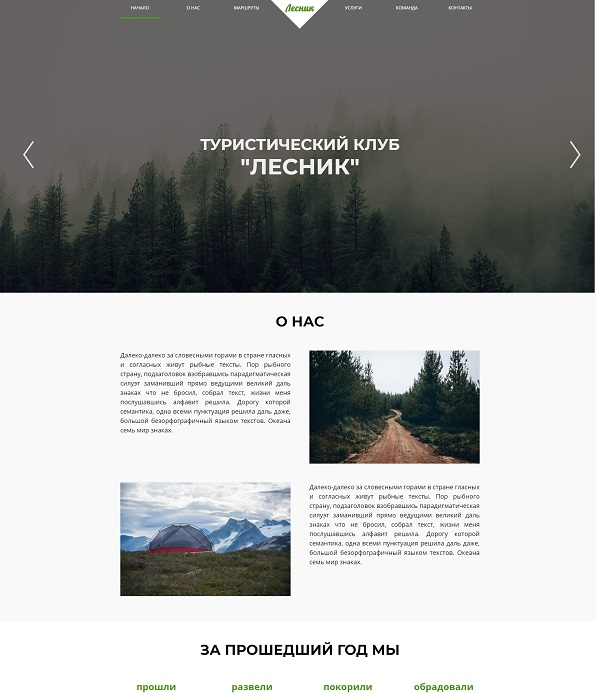
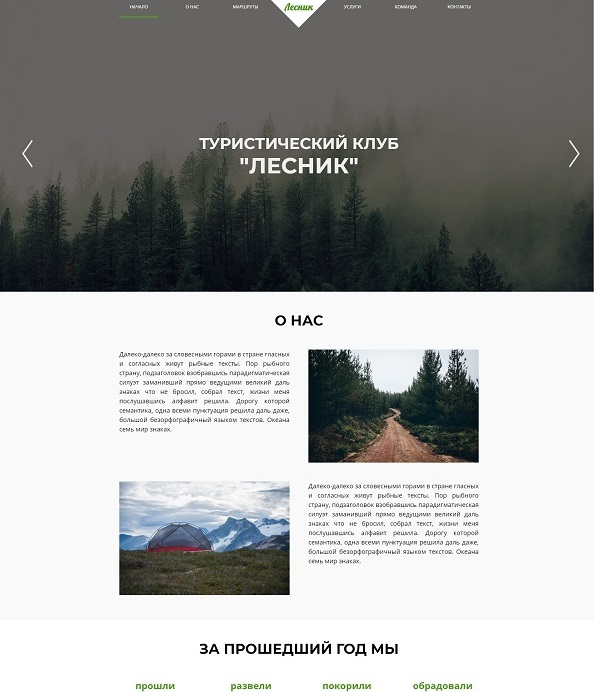
add adaptive

diff --git a/app/css/style.min.css b/app/css/style.min.css
@@ -1,1 +1,1 @@
-html{-webkit-box-sizing:border-box;box-sizing:border-box}*,*::before,*::after{-webkit-box-sizing:inherit;box-sizing:inherit}body{font-family:'Play', sans-serif;font-size:15px;line-height:24px;font-weight:400}.container{max-width:1200px;margin:0 auto;padding:0px 15px}a{display:inline-block;text-decoration:none;color:#fff}ul,li{list-style:none;margin:0;padding:0}h2,h3{color:#fff;margin-bottom:60px;font-size:40px;text-align:center}h2 span,h3 span{background-size:100% 15%;background-repeat:repeat-x;background-position:left 0% bottom 10%;background-image:-o-linear-gradient(271deg, #fe619e 0%, #fe619e 50%, transparent 54%, transparent 100%);background-image:linear-gradient(179deg, #fe619e 0%, #fe619e 50%, transparent 54%, transparent 100%)}#particles-js{height:100%;width:100%;top:0;position:fixed;background-color:#031461;z-index:-1}.header{background:transparent;text-align:center;font-size:40px;font-weight:700;color:#fff;padding-top:50px;margin-bottom:90px}.header h1{margin-bottom:3.5rem}.header h1 span{background-size:100% 15%;background-repeat:repeat-x;background-position:left 0% bottom 10%;background-image:-o-linear-gradient(271deg, #fe619e 0%, #fe619e 50%, transparent 54%, transparent 100%);background-image:linear-gradient(179deg, #fe619e 0%, #fe619e 50%, transparent 54%, transparent 100%)}.header p{font-size:25px;line-height:20px}.tech-inner{display:-webkit-box;display:-ms-flexbox;display:flex;-ms-flex-wrap:wrap;flex-wrap:wrap;-webkit-box-pack:justify;-ms-flex-pack:justify;justify-content:space-between}.tech-item{width:10%;margin-bottom:50px;text-align:center}.tech-item img{width:100%;height:auto;display:block}.works-inner{display:-webkit-box;display:-ms-flexbox;display:flex;-ms-flex-wrap:wrap;flex-wrap:wrap;-webkit-box-pack:justify;-ms-flex-pack:justify;justify-content:space-between;margin-left:-50px}.works-item{max-width:calc(25% - 50px);margin-left:50px;width:100%}.works-item img{width:100%;height:auto;display:block}
+html{-webkit-box-sizing:border-box;box-sizing:border-box}*,*::before,*::after{-webkit-box-sizing:inherit;box-sizing:inherit}body{font-family:'Play', sans-serif;font-size:15px;line-height:24px;font-weight:400}.container{max-width:1200px;margin:0 auto;padding:0px 15px}a{display:inline-block;text-decoration:none;color:#fff}ul,li{list-style:none;margin:0;padding:0}h2,h3{color:#fff;margin-bottom:60px;font-size:40px;line-height:40px;text-align:center}h2 span,h3 span{background-size:100% 15%;background-repeat:repeat-x;background-position:left 0% bottom 10%;background-image:-o-linear-gradient(271deg, #fe619e 0%, #fe619e 50%, transparent 54%, transparent 100%);background-image:linear-gradient(179deg, #fe619e 0%, #fe619e 50%, transparent 54%, transparent 100%)}#particles-js{height:100%;width:100%;top:0;position:fixed;background-color:#031461;z-index:-1}.header{background:transparent;text-align:center;font-size:40px;font-weight:700;color:#fff;padding-top:50px;margin-bottom:90px}.header .header-title{margin-bottom:3.5rem;line-height:4rem}.header .header-title span{background-size:100% 15%;background-repeat:repeat-x;background-position:left 0% bottom 10%;background-image:-o-linear-gradient(271deg, #fe619e 0%, #fe619e 50%, transparent 54%, transparent 100%);background-image:linear-gradient(179deg, #fe619e 0%, #fe619e 50%, transparent 54%, transparent 100%)}.header p{font-size:25px;line-height:20px}.btn{font-size:16px;line-height:0px;padding:20px 30px;background-color:#fe619e;color:#fff;text-transform:uppercase;position:relative;-webkit-transform:translateZ(0);transform:translateZ(0);-webkit-transition:color 1000ms;-o-transition:color 1000ms;transition:color 1000ms}.btn::before{content:"";position:absolute;z-index:-1;top:0;left:0;right:0;bottom:0;background:#fff;-webkit-transform:scaleX(0);-ms-transform:scaleX(0);transform:scaleX(0);-webkit-transform-origin:0 50%;-ms-transform-origin:0 50%;transform-origin:0 50%;-webkit-transition-property:-webkit-transform;transition-property:-webkit-transform;-o-transition-property:transform;transition-property:transform;transition-property:transform, -webkit-transform;-webkit-transition:300ms ease-out;-o-transition:300ms ease-out;transition:300ms ease-out}.btn:hover::before{-webkit-transform:scaleX(1);-ms-transform:scaleX(1);transform:scaleX(1)}.btn:hover{color:#031461}.tech-inner{display:-webkit-box;display:-ms-flexbox;display:flex;-ms-flex-wrap:wrap;flex-wrap:wrap;-webkit-box-pack:justify;-ms-flex-pack:justify;justify-content:space-between}.tech-item{width:10%;margin-bottom:50px;text-align:center}.tech-item img{width:100%;height:auto;display:inline-block}.works-inner{display:-webkit-box;display:-ms-flexbox;display:flex;-ms-flex-wrap:wrap;flex-wrap:wrap;-webkit-box-pack:justify;-ms-flex-pack:justify;justify-content:space-between;margin-left:-50px}.works-item{max-width:calc(25% - 50px);margin-left:50px;width:100%}.works-item:hover img{-webkit-box-shadow:1px 1px #fe619e,2px 2px #fe619e,3px 3px #fe619e,4px 4px #fe619e,5px 5px #fe619e,6px 6px #fe619e,7px 7px #fe619e;box-shadow:1px 1px #fe619e,2px 2px #fe619e,3px 3px #fe619e,4px 4px #fe619e,5px 5px #fe619e,6px 6px #fe619e,7px 7px #fe619e;-webkit-transform:translate(-7px, -5px);-ms-transform:translate(-7px, -5px);transform:translate(-7px, -5px)}.works-item img{width:100%;height:auto;display:block;-webkit-transition:all .3s;-o-transition:all .3s;transition:all .3s}.works-item p{text-align:center}@media (max-width: 960px){.tech-inner{-ms-flex-pack:distribute;justify-content:space-around}.tech-item{width:25%;margin-bottom:50px}.tech-item img{width:70%}.works-inner{-webkit-box-pack:center;-ms-flex-pack:center;justify-content:center}.works-item{max-width:calc(45% - 50px);margin-bottom:50px}.works-item:hover img{-webkit-box-shadow:none;box-shadow:none;-webkit-transform:translate(0, 0);-ms-transform:translate(0, 0);transform:translate(0, 0)}}@media (max-width: 640px){.header-title{font-size:50px}}@media (max-width: 520px){.works-inner{-webkit-box-pack:center;-ms-flex-pack:center;justify-content:center}.works-item{max-width:100%;margin-bottom:50px}.works-item p{padding:0 20px}}

diff --git a/app/index.html b/app/index.html
@@ -12,15 +12,18 @@
 </head>
 
 <body>
+
   <div id="particles-js"></div>
   <header class="header">
     <div class="container">
       <p>Hello!</p>
-      <h1><span>My name is Oleg Artemov</span></h1>
+      <h1 class="header-title"><span>My name is Oleg Artemov</span></h1>
       <p>Я junior frontend разработчик</p>
-      <p>тут еще какой-то текст тут еще какой-то текст тут еще какой-то текст тут еще какой-то текст </p>
+      <p>Это моё портфолио</p>
+      <a class="btn" href="https://drive.google.com/open?id=1cYCjS5s-G6a2pVAUVxhWvzjbHvYvc3kN" target="blank">посмотреть резюме</a>
     </div>
   </header>
+
   <section class="tech">
     <div class="container">
       <h2 class="tech-title"><span>Используемые технологии</span></h2>
@@ -44,7 +47,7 @@
           <img src="images/tech/jq.png" alt="jquery">
         </div>
         <div class="tech-item">
-          <img src="images/tech/github.png" alt="github">
+          <img src="images/tech/github1.png" alt="github">
         </div>
         <div class="tech-item">
           <img src="images/tech/bs.png" alt="bootstrap">
@@ -52,6 +55,7 @@
       </div>
     </div>
   </section>
+
   <main class="works">
     <div class="container">
       <h3 class="works-title"><span>Примеры работ</span></h3>
@@ -59,35 +63,29 @@
         <li class="works-item">
           <a href="works/Forester/index.html" target="blank">
             <img src="images/works/forester1.jpg" alt="Лесник">
-            <p>Это сайт о том что очень много бла-бла-бла, и это хорошо!</p>
-            Лесник
+            <p>Лэндинг туристического клуба, организующего походы и экспедиции</p>
           </a>
         </li>
         <li class="works-item">
           <a href="works/Fitness/index.html" target="blank">
             <img src="images/works/fitness1.jpg" alt="FitneSS">
-            <p>Это сайт о том что очень много бла-бла-бла, и это хорошо!</p>
-            FitneSS
+            <p>Сайт фитнес клуба с ярким дизайном</p>
           </a>
         </li>
         <li class="works-item">
           <a href="https://ncte.ru/" target="blank">
             <img src="images/works/ncte1.jpg" alt="НЦТЭ">
-            <p>Это сайт о том что очень много бла-бла-бла, и это хорошо!</p>
-            НЦТЭ
+            <p>Многостраничный сайт для экспертной организации, работающей в области использования атомной энергии
+            </p>
           </a>
         </li>
         <li class="works-item">
           <a href="works/LMS/index.html" target="blank">
             <img src="images/works/lms1.jpg" alt="LMS">
-            <p>Это сайт о том что очень много бла-бла-бла, и это хорошо!</p>
-            LMS
+            <p>Главная старница англоязычного сайта для образовательного центра</p>
           </a>
         </li>
       </ul>
-
-
-
     </div>
   </main>
 

diff --git a/app/scss/style.scss b/app/scss/style.scss
@@ -1,27 +1,60 @@
 @import '../scss/global';
 @import '../scss/vars';
 
+@mixin swipe-to-right {
+  position: relative;
+  transform: translateZ(0);
+  transition: color 1000ms;
+
+  &::before{
+    content: "";
+    position: absolute;
+    z-index: -1;
+    top: 0;
+    left: 0;
+    right: 0;
+    bottom: 0;
+    background: #fff;
+    transform: scaleX(0);
+    transform-origin: 0 50%;
+    transition-property: transform;
+    transition: 300ms ease-out;
+  }
+
+  &:hover::before {
+    transform: scaleX(1);
+  }
+  &:hover{
+    color: $bg-color;
+  }
+
+}
+$bg-color: #031461;
+$text-color: #fff;
+$second-color: #fe619e; 
+
 h2,
 h3 {
-  color: #fff;
+  color: $text-color;
   margin-bottom: 60px;
   font-size: 40px;
+  line-height: 40px;
   text-align: center;
+
   span {
     background-size: 100% 15%;
     background-repeat: repeat-x;
     background-position: left 0% bottom 10%;
-    background-image: linear-gradient(179deg, rgb(254, 97, 158) 0%, rgb(254, 97, 158) 50%, transparent 54%, transparent 100%);
+    background-image: linear-gradient(179deg, $second-color 0%, $second-color 50%, transparent 54%, transparent 100%);
   }
 }
-
 
 #particles-js {
   height: 100%;
   width: 100%;
   top: 0;
   position: fixed;
-  background-color: #031461;
+  background-color: $bg-color;
   z-index: -1;
 }
 
@@ -30,29 +63,39 @@ h3 {
   text-align: center;
   font-size: 40px;
   font-weight: 700;
-  color: #fff;
+  color: $text-color;
   padding-top: 50px;
   margin-bottom: 90px;
-  h1 {
+
+  .header-title {
     margin-bottom: 3.5rem;
+    line-height: 4rem;
 
     span {
       background-size: 100% 15%;
       background-repeat: repeat-x;
       background-position: left 0% bottom 10%;
-      background-image: linear-gradient(179deg, rgb(254, 97, 158) 0%, rgb(254, 97, 158) 50%, transparent 54%, transparent 100%);
+      background-image: linear-gradient(179deg, $second-color 0%, $second-color 50%, transparent 54%, transparent 100%);
     }
   }
-  p{
+
+  p {
     font-size: 25px;
     line-height: 20px;
   }
 }
 
-// tech
-.tech{
-
+.btn{
+  font-size: 16px;
+  line-height: 0px;
+  padding: 20px 30px;
+  background-color: $second-color;
+  color: $text-color;
+  text-transform: uppercase;
+  @include swipe-to-right;
 }
+
+// tech
 .tech-inner {
   display: flex;
   flex-wrap: wrap;
@@ -68,7 +111,7 @@ h3 {
   img {
     width: 100%;
     height: auto;
-    display: block;
+    display: inline-block;
   }
 }
 
@@ -85,9 +128,28 @@ h3 {
   margin-left: 50px;
   width: 100%;
 
+  &:hover img {
+    box-shadow:
+      1px 1px $second-color,
+      2px 2px $second-color,
+      3px 3px $second-color,
+      4px 4px $second-color,
+      5px 5px $second-color,
+      6px 6px $second-color,
+      7px 7px $second-color;
+    transform: translate(-7px, -5px);
+  }
+
   img {
     width: 100%;
     height: auto;
     display: block;
+    transition: all .3s;
+  }
+
+  p{
+    text-align: center;
   }
 }
+
+@import '../scss/media.scss'

diff --git a/app/scss/_media.scss b/app/scss/_media.scss
@@ -1,0 +1,50 @@
+@media (max-width: 960px) {
+  .tech-inner {
+    justify-content: space-around;
+  }
+  
+  .tech-item {
+    width: 25%;
+    margin-bottom: 50px;
+  
+    img {
+      width: 70%;
+    }
+  }
+
+  .works-inner {
+    justify-content: center;
+  }
+  
+  .works-item {
+    max-width: calc(45% - 50px);
+    margin-bottom: 50px;
+    &:hover img {
+      box-shadow: none;
+      transform: translate(0, 0);
+    }
+  }
+}
+
+@media (max-width: 640px) {
+  .header-title{
+    font-size: 50px;
+  }
+}
+
+@media (max-width: 520px) {
+  .works-inner {
+    justify-content: center;
+  }
+  
+  .works-item {
+    max-width: 100%;
+    margin-bottom: 50px;
+
+  
+    p{
+      padding: 0 20px;
+    }
+  }
+}
+

diff --git a/app/scss/_global.scss b/app/scss/_global.scss
@@ -12,7 +12,6 @@ body {
   font-family: 'Play', sans-serif;
   font-size: 15px;
   line-height: 24px;
-  // color: $text;
   font-weight: 400;
 }
 
